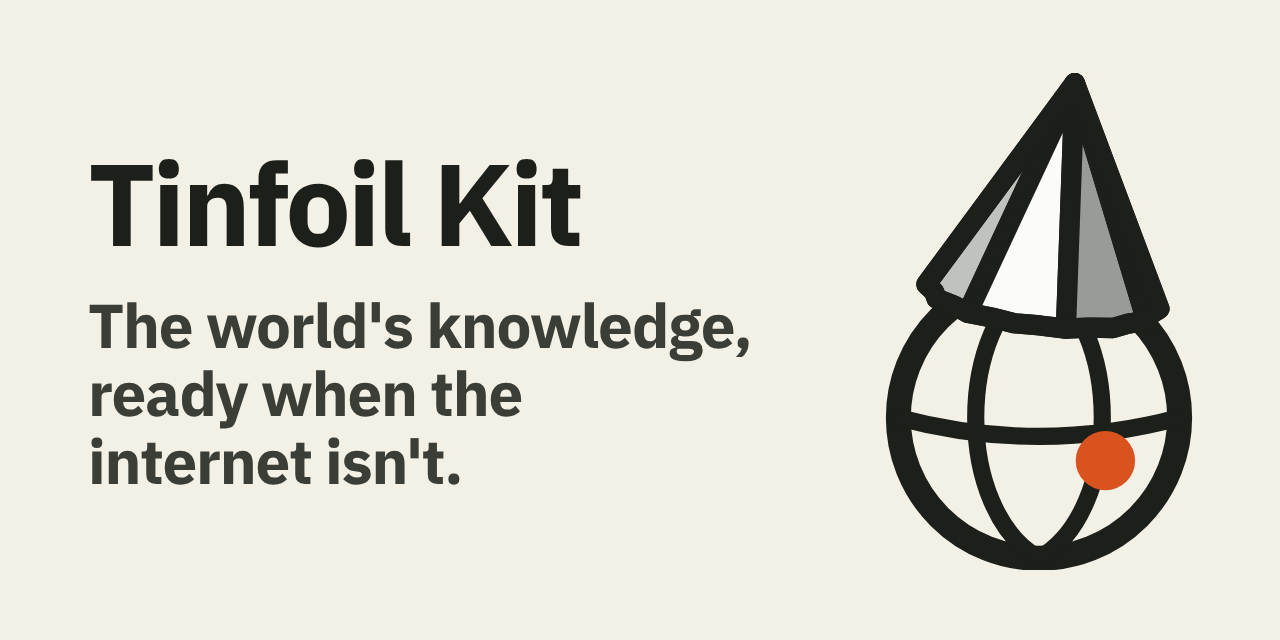
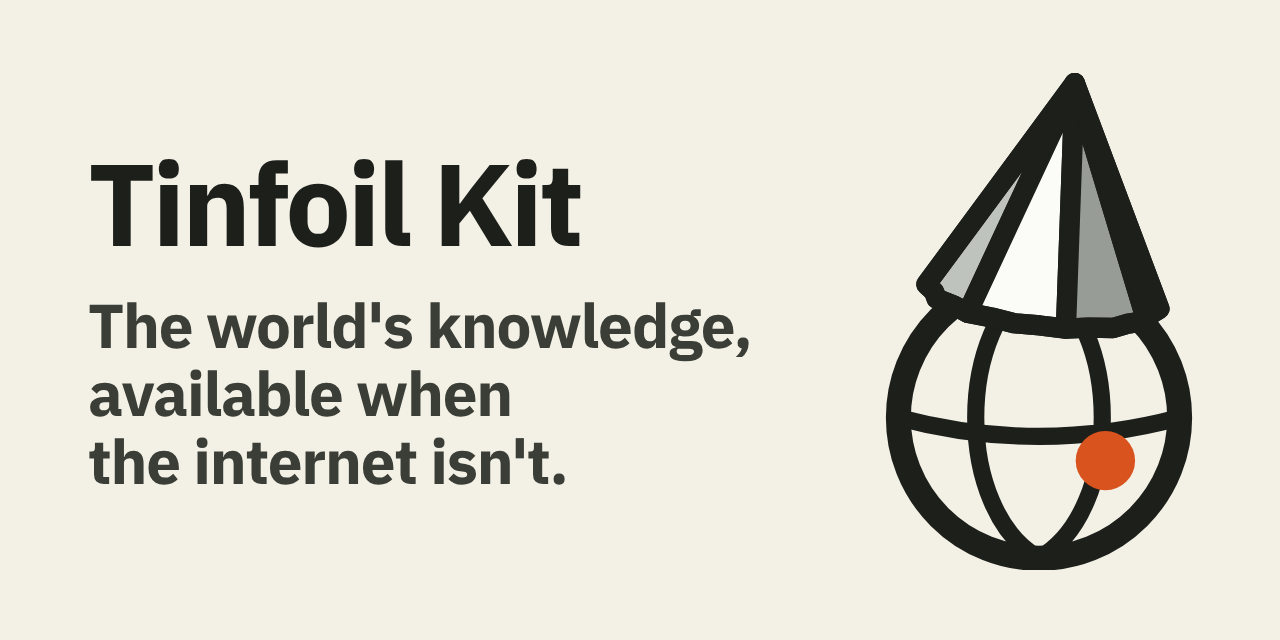
Site: Travis's edits to the new home page
- Headline: "The world's knowledge, available when the internet isn't." The page
  title, the link preview's text and its card say the same.
- The subhead's AI "helps you search through them", and its last sentence
  starts "If the internet is down". The meta description and "What is Tinfoil
  Kit?" use the same words.
- "Shows the pages it used" is gone: the AI in On the drive is "Ask in plain
  words, and it searches everything above for you", What it's for ends "the AI
  helps you find the answer in these books", and the FAQ says each answer
  "links to its sources".
- On phones and narrow windows the animation comes before On the drive, as it
  does beside the copy on a wide screen.
- "What runs on your computer" (Under the hood) is gone, with its servers
  list and styles. Its rules also styled the kit builder's cards, so the
  builder keeps them and looks the same. llms.txt and the README still name
  every part.
- "Don't trust us? No problem. Have your AI audit the code."

Claude-Session: https://claude.ai/code/session_01Ejz5m3nk7bJw7k2wTezctu

Changed region(s): [[0.0625, 0.5625, 0.4375, 0.7812]]

diff --git a/site/app/page.jsx b/site/app/page.jsx
@@ -21,13 +21,13 @@ import { AUDIT_PROMPT, INSTALL_PROMPT, OWN_PROMPT } from "@/components/prompts";
 import { APP, Footer, JsonLd, LICENSES, pageMetadata, Question, REPO, SITE } from "@/components/site";
 
 // My AI installs it: the home page. Your AI asks what you want and gives you one command, since the downloads are
-// coming soon. Plain words up top (AI, never LLM, GGUF or ZIM); Under the hood names the parts for technical readers.
+// coming soon. Plain words (AI, never LLM, GGUF or ZIM): llms.txt and the README name the parts for technical readers.
 const DESCRIPTION =
-  "A free, open-source copy of the world's knowledge for when the internet is down for days or weeks: Wikipedia, medical and survival guides, repair manuals, maps and a local offline AI that answers from them.";
+  "A free, open-source copy of the world's knowledge for when the internet is down for days or weeks: Wikipedia, medical and survival guides, repair manuals, maps and a local offline AI that helps you search through them.";
 
 export const metadata = pageMetadata({
   path: "/",
-  title: "Tinfoil Kit: the world's knowledge, ready when the internet isn't",
+  title: "Tinfoil Kit: the world's knowledge, available when the internet isn't",
   description: DESCRIPTION,
 });
 
@@ -127,30 +127,8 @@ const SECTIONS = [
   ["#how", "How it works"],
   ["#demo", "Try it"],
   ["#builder", "Build your kit"],
-  ["#stack", "Under the hood"],
   ["#trust", "Is it safe?"],
   ["#faq", "Questions"],
-];
-
-// What Open Tinfoil Kit starts (README's How it works has the same table)
-const SERVERS = [
-  [
-    "AI",
-    "llama-server (llama.cpp)",
-    "port 8080",
-    "Serves the LLM, one model at a time. AI chat is its built-in chat page.",
-  ],
-  ["Library", "kiwix-serve", "port 8888", "Serves the ZIM files with full-text search, and the kit page."],
-  ["Map", "pmtiles", "port 8090", "Serves vector tiles: street detail for your region, and a low-zoom world."],
-  ["Addresses", "Photon", "port 2322", "Geocoding: addresses, places, and the nearest hospital or pharmacy."],
-  ["Directions", "GraphHopper", "port 8989", "Driving and walking routes, on a road graph built from OpenStreetMap."],
-  ["Notes and pins", "the kit's program", "port 8095", "Keeps the household notes the AI reads, and the map's pins."],
-  [
-    "Sharing",
-    "the kit's program",
-    "port 8000",
-    "Off by default. One gate for the devices at home, behind an 8-digit code.",
-  ],
 ];
 
 // On the drive: what the kit holds, named in the hero so nobody has to guess (the builder lists every source)
@@ -160,7 +138,7 @@ const DRIVE = [
   ["Survival", "FEMA's guides and US Army field manuals: water, food, shelter, navigation."],
   ["Repair", "iFixit, plus how-tos for the house, the car, solar panels and radios."],
   ["Maps", "Your area's streets, directions and nearest hospital, and a map of the world."],
-  ["AI", "Answers in plain words from everything above, and shows the pages it used."],
+  ["AI", "Ask in plain words, and it searches everything above for you."],
 ];
 
 // What it's for: what people need to know in a long outage, and the books that answer it. Medical lines look things
@@ -207,11 +185,11 @@ export default function Home() {
         <section className="wrap hero">
           <div className="hero-copy">
             <p className="kicker">Free&nbsp;· Open source</p>
-            <h1>The world's knowledge, ready when the internet isn't.</h1>
+            <h1>The world's knowledge, available when the internet isn't.</h1>
             <p className="lede">
               Tinfoil Kit saves all of Wikipedia, medical and survival guides, repair manuals and maps to a drive you
-              own, with a local offline AI that answers from them. When the internet is down for days or weeks, it all
-              still works.
+              own, with a local offline AI that helps you search through them. If the internet is down for days or
+              weeks, it all still works.
             </p>
             <Download>
               <a className="star" href={REPO}>
@@ -256,8 +234,8 @@ export default function Home() {
               ))}
             </ul>
             <p className="uses-foot">
-              Ask in plain words, and the AI answers from these books and shows the pages it used. Or skip the AI:
-              Search finds the right passages in seconds, on very little power.
+              Ask in plain words, and the AI helps you find the answer in these books. Or skip the AI: Search finds the
+              right passages in seconds, on very little power.
             </p>
           </div>
         </section>
@@ -417,87 +395,13 @@ export default function Home() {
             </div>
           </div>
         </section>
-        <section id="stack" className="wrap section">
-          <div style={{ display: "flex", flexDirection: "column", gap: "10px" }}>
-            <p className="kicker">Under the hood</p>
-            <h2>What runs on your computer.</h2>
-            <p style={{ fontSize: "18px", lineHeight: "1.5", color: "var(--ink2)", maxWidth: "760px" }}>
-              Open Tinfoil Kit starts these servers from the kit's folder, each on 127.0.0.1, and opens the kit page in
-              your browser. No Docker, no runtime to install, no admin password: one Go program, standard library only,
-              downloads, checks and runs it all, with curl for every download.
-            </p>
-          </div>
-          <ul className="cards" aria-label="The servers">
-            {SERVERS.map(([part, program, port, what]) => (
-              <li key={part}>
-                <b>{part}</b>
-                <code>
-                  {program} · {port}
-                </code>
-                <span>{what}</span>
-              </li>
-            ))}
-          </ul>
-          <ul className="cards">
-            <li>
-              <b>Ask: answers with sources, or search</b>
-              <span>
-                Ask the AI: the LLM turns your question into short searches, kiwix-serve runs them over every ZIM, and
-                the LLM answers from the top articles with numbered citations. Map questions go to three tools instead:
-                search places, find nearby, get directions. Search skips the LLM: the question&apos;s own words over the
-                same full-text indexes, the best passages ranked in the page, in seconds and with no GPU. The LLM can
-                then answer from those passages, with no second search.
-              </span>
-            </li>
-            <li>
-              <b>Models: 4-bit GGUF, all with vision</b>
-              <span>
-                From Hugging Face: Inkling 2 Mini by default (a mixture of experts, about 3.4B of its 26B parameters
-                active per token), Qwen3.8 27B, and Gemma 4 26B-A4B, 12B and E4B. A model may take 60% of memory, and{" "}
-                <code>./kit fit</code> picks the one this computer runs.
-              </span>
-            </li>
-            <li>
-              <b>Library: Kiwix ZIM files</b>
-              <span>
-                Straight from Kiwix: Wikipedia in any language, all of it or the best 50,000 articles, with or without
-                pictures, plus WikiMed, iFixit, Stack Exchange, LibreTexts, US Army manuals and more.{" "}
-                <code>./kit search</code> finds any other ZIM.
-              </span>
-            </li>
-            <li>
-              <b>Maps: PMTiles, Photon, GraphHopper</b>
-              <span>
-                Protomaps' daily OpenStreetMap build, cut to your region and drawn by MapLibre GL; Photon's address
-                database; and a road graph built from Geofabrik's extract on the first sync. Photon and GraphHopper run
-                on a Java 21 inside the kit.
-              </span>
-            </li>
-            <li>
-              <b>One folder, three systems</b>
-              <span>
-                The kit carries every program for macOS on Apple silicon and for Windows and Linux on x64, so an exFAT
-                drive starts on any of them. On Windows and Linux the LLM runs on the GPU through Vulkan. Both are
-                experimental for now.
-              </span>
-            </li>
-            <li>
-              <b>Updates that keep what you have</b>
-              <span>
-                <code>./kit sync</code> asks each publisher for the newest edition, downloads only what changed over
-                eight connections per file, resumes, checks checksums, and keeps the old version until the new one
-                checks out. A new release replaces only the app folder.
-              </span>
-            </li>
-          </ul>
-        </section>
         <section id="trust" className="oss">
           <div className="wrap">
             <div style={{ flex: "1 1 520px", display: "flex", flexDirection: "column", gap: "16px" }}>
               <p className="kicker" style={{ color: "#E0884F" }}>
                 Don't trust, verify
               </p>
-              <h2>Don't trust us? Good. Have your AI audit the code.</h2>
+              <h2>Don't trust us? No problem. Have your AI audit the code.</h2>
               <p>
                 Before you install anything, paste this into ChatGPT, Claude or any AI chat. It reads the code and tells
                 you what the kit does, without running it.
@@ -582,9 +486,9 @@ tools/tinfoilkit/build.sh verify SHA256SUMS`}
           <div className="faq" itemScope itemType="https://schema.org/FAQPage">
             <Question q="What is Tinfoil Kit?">
               Tinfoil Kit is a free, open-source copy of the world's knowledge for when the internet is down for days or
-              weeks. It puts all of Wikipedia, medical and survival guides, repair manuals, maps with directions and a
-              local offline AI that answers from them on an external drive or your laptop. You set it up while you're
-              online, and after that it all works with no internet.
+              weeks. It puts all of Wikipedia, medical and survival guides, repair manuals and maps with directions on
+              an external drive or your laptop, with a local offline AI that helps you search through them. You set it
+              up while you're online, and after that it all works with no internet.
             </Question>
             <Question q="Where's the download?">
               Coming soon. A Mac download has to be signed by Apple, or macOS makes you dig through System Settings to
@@ -718,9 +622,9 @@ tools/tinfoilkit/build.sh verify SHA256SUMS`}
               that works on any computer.
             </Question>
             <Question q="Can I trust the AI's answers?">
-              Check it, like you'd check a well-read friend. Each answer shows the pages it came from, so you can read
-              them yourself. For anything medical, use it to look things up in WikiMed and the Army's medical manuals.
-              It isn't a doctor: read the source, and get trained help when you can.
+              Check it, like you'd check a well-read friend. Each answer links to its sources, so you can read them
+              yourself. For anything medical, use it to look things up in WikiMed and the Army's medical manuals. It
+              isn't a doctor: read the source, and get trained help when you can.
             </Question>
             <Question q="Can my family use it from their phones?">
               Yes. Turn on sharing, and phones and laptops on your Wi-Fi or hotspot can open it: they scan its QR code

diff --git a/site/app/globals.css b/site/app/globals.css
@@ -363,7 +363,7 @@ nav.links {
 html:not(.js) .fig {
   display: none;
 }
-/* On the drive: what the kit holds, in a strip across the hero. Where the copy and the figure stack, it comes first. */
+/* On the drive: what the kit holds, in a strip across the hero, under the copy and the figure */
 .manifest {
   flex: 1 1 100%;
   min-width: 0;
@@ -416,14 +416,6 @@ html:not(.js) .fig {
   font-size: 15px;
   line-height: 1.45;
   color: var(--ink2);
-}
-@media (max-width: 1199px) {
-  .manifest {
-    order: 1;
-  }
-  .hero .fig {
-    order: 2;
-  }
 }
 @media (max-width: 999px) {
   .manifest ul {
@@ -731,8 +723,13 @@ html:not(.js) .fig {
 }
 .cards {
   display: grid;
-  grid-template-columns: repeat(auto-fill, minmax(min(300px, 100%), 1fr));
-  gap: 12px;
+  grid-template-columns: repeat(auto-fit, minmax(min(280px, 100%), 1fr));
+  gap: 16px;
+}
+.cards span {
+  font-size: 15px;
+  line-height: 1.55;
+  color: var(--ink2);
 }
 .card {
   border: var(--rule);
@@ -1302,35 +1299,6 @@ code {
 }
 .dl .dl-ai {
   align-self: flex-start;
-}
-/* Under the hood: the servers, and what each part is made of */
-.cards {
-  list-style: none;
-  margin: 0;
-  padding: 0;
-  display: grid;
-  grid-template-columns: repeat(auto-fit, minmax(min(280px, 100%), 1fr));
-  gap: 16px;
-}
-.cards li {
-  display: flex;
-  flex-direction: column;
-  gap: 6px;
-  padding: 18px 20px;
-  border: var(--rule);
-  background: var(--paper);
-}
-.cards b {
-  font-size: 18px;
-}
-.cards li > code {
-  font: 500 14px/1.5 var(--mono);
-  color: var(--olive);
-}
-.cards span {
-  font-size: 15px;
-  line-height: 1.55;
-  color: var(--ink2);
 }
 pre.code {
   flex: 1 1 100%;

diff --git a/site/components/site.jsx b/site/components/site.jsx
@@ -13,7 +13,7 @@ export const APP = { "@type": "SoftwareApplication", "@id": `${SITE}/#app`, name
 const PREVIEW = {
   title: "Tinfoil Kit",
   description:
-    "The world's knowledge, ready when the internet isn't. Wikipedia, medical and survival guides, maps and a local offline AI, on one drive or your laptop. Free and open source.",
+    "The world's knowledge, available when the internet isn't. Wikipedia, medical and survival guides, maps and a local offline AI, on one drive or your laptop. Free and open source.",
 };
 
 // A page's own address, title and summary, for search engines and AI answer engines, and its link preview. Addresses
@@ -37,7 +37,7 @@ export function pageMetadata({ path, title, description, preview = PREVIEW }) {
           url: `${SITE}/og.png`,
           width: 1200,
           height: 630,
-          alt: "Tinfoil Kit. The world's knowledge, ready when the internet isn't. Beside it, the logo: a globe wearing a tinfoil hat.",
+          alt: "Tinfoil Kit. The world's knowledge, available when the internet isn't. Beside it, the logo: a globe wearing a tinfoil hat.",
         },
       ],
     },

diff --git a/tests/site_test.py b/tests/site_test.py
@@ -86,9 +86,9 @@ OR = """([first, second]) => { const r = s => document.querySelector(s).getBound
 # The two versions of the site, each a page of its own: their AI sets it up, or an AI reads it
 PAGES = {"": "My AI installs it", "agents": "I'm an AI"}
 VERSIONS = "[...document.querySelectorAll('nav.versions a')].map(a => [a.getAttribute('href'), a.textContent, a.getAttribute('aria-current')])"
-# The home page says AI in plain words until Under the hood, which names the parts for technical readers
+# The home page says AI in plain words: llms.txt and the README name the parts for technical readers
 JARGON = re.compile(r"\bLLMs?\b|\bGGUF\b|\bZIM\b|PMTiles|llama-server|SHA256SUMS")
-PLAIN = "[...document.querySelectorAll('.hero, #uses, #how, #demo, #builder, #faq')].map(e => e.innerText).join(' ')"
+PLAIN = "[...document.querySelectorAll('.hero, #uses, #how, #demo, #builder, #faq, #built-on')].map(e => e.innerText).join(' ')"
 
 # Never 2 TB: the drive's size isn't the point
 copy = glob.glob(os.path.join(SITE, "app", "**", "*.jsx"), recursive=True) + glob.glob(
@@ -223,7 +223,7 @@ with sync_playwright() as p:
             )
 
         # My AI installs it: the home page. Set up with your AI leads, the download is coming soon, the kit builder
-        # makes the prompt, and Under the hood names the parts
+        # makes the prompt
         page.goto(URL)
         page.wait_for_selector(HYDRATED)
         page.wait_for_selector(".card")
@@ -262,9 +262,10 @@ with sync_playwright() as p:
         versions(f"{name} home page", "")
         check(
             f"{name}: the home page's headline and subheader",
-            page.text_content(".hero h1") == "The world's knowledge, ready when the internet isn't."
+            page.text_content(".hero h1") == "The world's knowledge, available when the internet isn't."
             and page.text_content(".hero .lede").startswith("Tinfoil Kit saves all of Wikipedia")
-            and "local offline AI" in page.text_content(".hero .lede"),
+            and "local offline AI that helps you search through them. If the internet"
+            in page.text_content(".hero .lede"),
             page.text_content(".hero .lede"),
         )
         star, where = page.locator(".ctas .star"), page.evaluate(STAR)
@@ -306,10 +307,8 @@ with sync_playwright() as p:
                 page.is_visible("nav.links a[href='#faq']") and not page.is_visible("#menu"),
             )
         said = JARGON.findall(page.evaluate(PLAIN))
-        check(f"{name}: the home page says AI, in plain words, until Under the hood", not said, ", ".join(said))
-        text = page.inner_text("#stack") + page.inner_text("#trust")
-        named = [w for w in ("LLM", "llama.cpp", "GGUF", "ZIM", "PMTiles", "SHA256SUMS", "127.0.0.1") if w not in text]
-        check(f"{name}: Under the hood names the parts, for technical readers", not named, ", ".join(named))
+        check(f"{name}: the home page says AI, in plain words", not said, ", ".join(said))
+        check(f"{name}: no section lists what runs on your computer", page.locator("#stack").count() == 0)
         totals = {}
         for preset in ("essentials", "everything", "no-ai", "recommended"):
             page.click(f"[data-preset={preset}]")
@@ -330,19 +329,17 @@ with sync_playwright() as p:
             models == 0 and totals["no-ai"] < totals["recommended"],
             f"{models} models, {totals}",
         )
-        # the hero names what the kit holds: below the buttons, and on phones before the animation
+        # the hero names what the kit holds: below the buttons and the animation
         drive = page.locator(".manifest b").all_text_contents()
         where = page.evaluate(
             "(() => { const r = s => document.querySelector(s).getBoundingClientRect();"
-            " return [r('.cta-note').bottom <= r('.manifest').top, r('.manifest').bottom <= r('.fig').top] })()"
+            " return [r('.cta-note').bottom <= r('.manifest').top, r('.fig').bottom <= r('.manifest').top] })()"
         )
         check(
-            f"{name}: the hero lists what's on the drive, under the buttons"
-            + (", before the animation" if name == "phone" else ""),
+            f"{name}: the hero lists what's on the drive, under the buttons and the animation",
             drive == ["Wikipedia", "Medicine", "Survival", "Repair", "Maps", "AI"]
             and page.get_attribute(".manifest-head a", "href") == "#builder"
-            and where[0]
-            and (where[1] or name == "desktop"),
+            and all(where),
             f"{drive}, {where}",
         )
         uses = page.locator("#uses .uses h3").all_text_contents()

diff --git a/site/build_images.py b/site/build_images.py
@@ -14,7 +14,7 @@ from playwright.sync_api import sync_playwright
 SITE = os.path.dirname(os.path.abspath(__file__))
 ROOT = os.path.dirname(SITE)
 INK, INK2, PAPER, SIGNAL = "#1C1F1A", "#3A3E36", "#F3F0E6", "#D9531E"
-HEADLINE = "The world's knowledge,<br>ready when the<br>internet isn't."
+HEADLINE = "The world's knowledge,<br>available when<br>the internet isn't."
 
 
 def data_uri(path, mime):

diff --git a/AGENTS.md b/AGENTS.md
@@ -83,7 +83,7 @@ Workflows: actions pinned to a full commit SHA with the version as a comment; re
 
 `site/` is a static Next.js app (App Router, JavaScript, `output: 'export'`), deployed by Vercel from `main` (project `tinfoilkit`, tudor-city-ventures team, root `site/`).
 
-- Two pages, one for each way in, each with its own copy, metadata, canonical link and JSON-LD, so search and answer engines rank them apart. `app/page.jsx`, "My AI installs it", is the home page: setup with an AI first, in plain words up top (AI, never LLM, GGUF or ZIM): the headline and animation with what's on the drive, what it's for (what people need to know in a long outage), how it works, the Try it demo, the kit builder and the prompts; then what runs and how to verify it, in technical terms, and the FAQ. The downloads show beside Set up with your AI, marked "coming soon", until the Mac app can be signed ([RELEASING.md](docs/RELEASING.md#signing-the-mac-app-once)). `app/agents/page.jsx`, "I'm an AI": `public/llms.txt`, the setup instructions for AI agents, read as the site builds and shown as markdown, with no images or icons. The versions strip in `components/header.jsx` links them, and the head script in `app/layout.jsx` and the redirects in `vercel.json` still land the old links: `/?for=agent` and `#instructions` on `/agents`, and `/ai-setup`, once a third page, on the home page.
+- Two pages, one for each way in, each with its own copy, metadata, canonical link and JSON-LD, so search and answer engines rank them apart. `app/page.jsx`, "My AI installs it", is the home page: setup with an AI first, in plain words up top (AI, never LLM, GGUF or ZIM): the headline and animation with what's on the drive, what it's for (what people need to know in a long outage), how it works, the Try it demo, the kit builder and the prompts; then how to check the code, and the FAQ. The downloads show beside Set up with your AI, marked "coming soon", until the Mac app can be signed ([RELEASING.md](docs/RELEASING.md#signing-the-mac-app-once)). `app/agents/page.jsx`, "I'm an AI": `public/llms.txt`, the setup instructions for AI agents, read as the site builds and shown as markdown, with no images or icons. The versions strip in `components/header.jsx` links them, and the head script in `app/layout.jsx` and the redirects in `vercel.json` still land the old links: `/?for=agent` and `#instructions` on `/agents`, and `/ai-setup`, once a third page, on the home page.
 - `components/site.jsx` has what the pages share (metadata, JSON-LD, FAQ markup, the footer), `app/globals.css` the styles, and the rest of `components/` the interactive parts: the animated hero (`hero.jsx`, on a canvas), the kit builder (`builder.jsx`), the hero's buttons with their dialogs (`download.jsx`: Set up with your AI opens the prompt, and All downloads lists each computer's, coming soon) and the Try it demo of the kit page (`demo.jsx`, with answers written ahead of time and a sample town in `demo-data.js`, so it runs no AI and needs no server).
 - shadcn/ui is only for form controls (`components/ui/`); everything else is plain CSS.
 - `site/build_sources.py` makes the builder's data (`sources.json`) from `kit.json` and copies `kit.json` and `tools/regions.json` beside it; `app/[file]/route.js` serves them. The weekly `refresh builder sizes` workflow updates the sizes (`./kit plan --json`).
